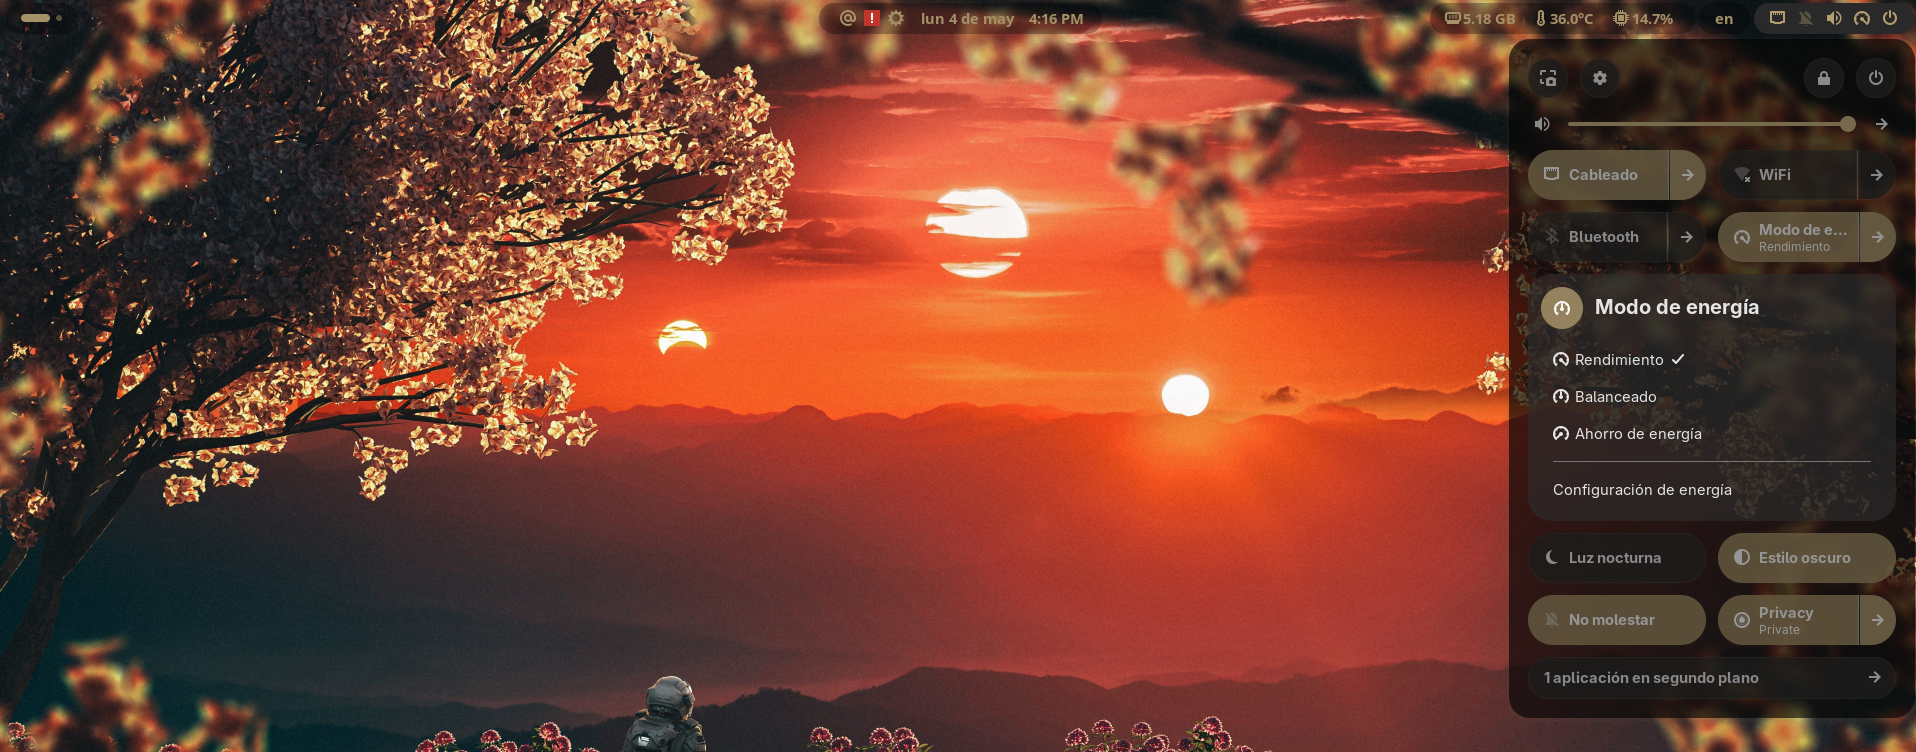
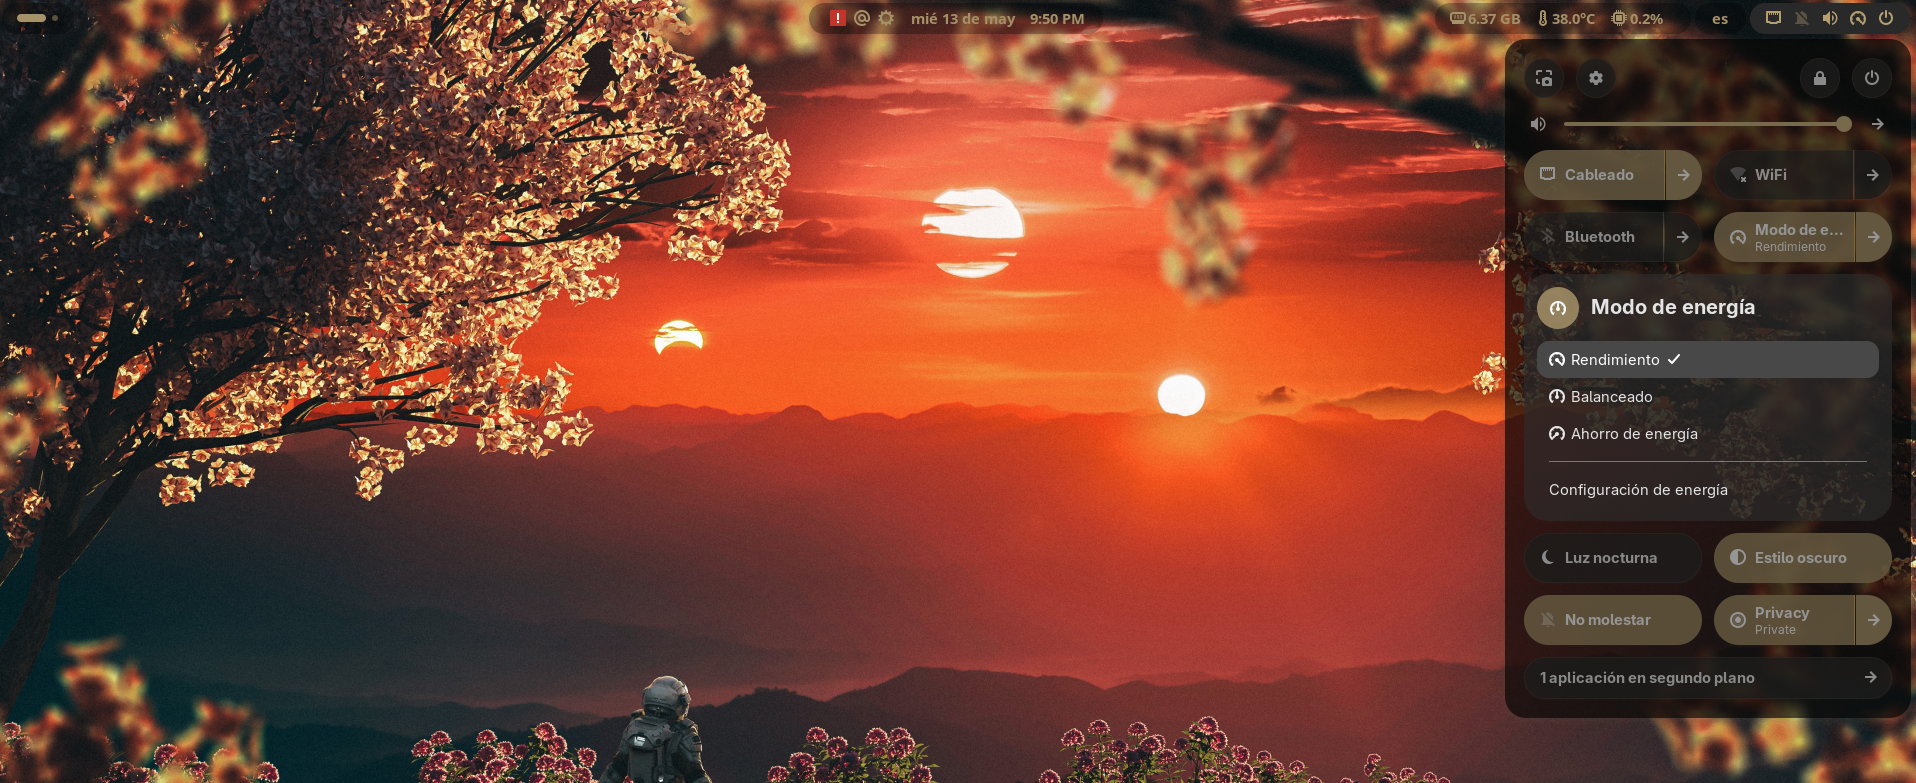
feat: finalize UI with Tile Division Color and fix config export
- Added customizable 'Tile Division Color' for Quick Settings.
- Improved dconf export logic to ensure files are saved correctly.
- Synchronized tile border radius with system settings.
- Fixed division line artifacts on active/checked tiles.
- Updated README with new screenshot references.

diff --git a/bar-enhanced@mrvanguardia/stylesheets.js b/bar-enhanced@mrvanguardia/stylesheets.js
@@ -1144,6 +1144,7 @@ function getStylesheet(obar, Me) {
     let menuRadius = obar._settings.get_double('menu-radius');
     let notifRadius = obar._settings.get_double('notif-radius');
     let qtoggleRadius = obar._settings.get_double('qtoggle-radius');
+    let qtileBorderColor = obar._settings.get_strv('qtile-border');
     let sliderHeight = obar._settings.get_double('slider-height');
     let sliHandBorder = obar._settings.get_double('handle-border');
     let mbgGradient = obar._settings.get_boolean('mbg-gradient');
@@ -1336,6 +1337,12 @@ function getStylesheet(obar, Me) {
     let mhbg = `rgba(${mhbgred},${mhbggreen},${mhbgblue},${1.0})`;
     // Save menu highlight hex for use in focused svg
     obar.mhHex = rgbToHex(mhbgred, mhbggreen, mhbgblue);
+
+    // Quick Settings Tile Border -
+    let qtbr = parseInt(parseFloat(qtileBorderColor[0]) * 255);
+    let qtbg = parseInt(parseFloat(qtileBorderColor[1]) * 255);
+    let qtbb = parseInt(parseFloat(qtileBorderColor[2]) * 255);
+    let qtcolor = `rgba(${qtbr},${qtbg},${qtbb},1.0)`;
 
     // Sub Menu Auto Highlight
     hgColor = [mhred, mhgreen, mhblue];
@@ -3137,10 +3144,36 @@ function getStylesheet(obar, Me) {
             color: rgba(${smfgred},${smfggreen},${smfgblue},1) !important;
         }
         .app-folder-dialog .folder-name-container .edit-folder-button,
-        .app-folder-dialog .folder-name-container .icon-button {
+        .quick-settings-tile .quick-settings-tile-main-button, 
+        .quick-settings-tile .quick-settings-tile-side-button,
+        .quick-settings-tile .quick-settings-tile-main-button:checked,
+        .quick-settings-tile .quick-settings-tile-side-button:checked,
+        .quick-settings-tile .quick-settings-tile-main-button:active,
+        .quick-settings-tile .quick-settings-tile-side-button:active {
             color: rgba(${mfgred},${mfggreen},${mfgblue},1) !important;
-            background-color: ${mbg} !important;
-            border-color: ${msc} !important;
+            border: 1px solid ${qtcolor} !important;
+            outline: none !important;
+            outline-width: 0 !important;
+            box-shadow: none !important;
+            margin: 0 !important;
+        } 
+        .quick-settings-tile .quick-settings-tile-main-button,
+        .quick-settings-tile .quick-settings-tile-main-button:checked {
+            border-radius: ${qtoggleRadius}px 0 0 ${qtoggleRadius}px !important;
+            border-right-width: 0.5px !important;
+        }
+        .quick-settings-tile .quick-settings-tile-side-button,
+        .quick-settings-tile .quick-settings-tile-side-button:checked {
+            border-radius: 0 ${qtoggleRadius}px ${qtoggleRadius}px 0 !important;
+            border-left-width: 0.5px !important;
+        }
+        .quick-settings-tile-main-button:hover, .quick-settings-tile-side-button:hover,
+        .quick-settings-tile-main-button:focus, .quick-settings-tile-side-button:focus {
+            background-color: ${mhbg} !important;
+            color: rgba(${mhfgred},${mhfggreen},${mhfgblue},1) !important;
+            border: none !important;
+            outline: none !important;
+            outline-width: 0 !important;
         }
         .app-folder-dialog .folder-name-container .edit-folder-button:hover,
         .app-folder-dialog .folder-name-container .edit-folder-button:focus,

diff --git a/bar-enhanced@mrvanguardia/prefs.js b/bar-enhanced@mrvanguardia/prefs.js
@@ -352,6 +352,7 @@ class BarEnhancedPrefs {
         mGroup.add(this.createSwitchRow('mbg-gradient', T('Surface Linear Gradient')));
         mGroup.add(this.createSwitchRow('smbgoverride', T('Secondary Palette Override')));
         const smRow = new Adw.ActionRow({ title: T('Secondary Surface') }); smRow.add_suffix(this.createColorButton(window, 'smbgcolor')); mGroup.add(smRow);
+        const tileDivRow = new Adw.ActionRow({ title: T('Tile Division Color') }); tileDivRow.add_suffix(this.createColorButton(window, 'qtile-border')); mGroup.add(tileDivRow);
         
         const mBordGroup = new Adw.PreferencesGroup({ title: T('Popups Geometry') });
         menuPage.add(mBordGroup);
@@ -642,10 +643,12 @@ class BarEnhancedPrefs {
     exportSettings(window) {
         let f = new Gtk.FileChooserDialog({ title: T("Export Configuration"), action: Gtk.FileChooserAction.SAVE, transient_for: window });
         f.add_button(T("Cancel"), Gtk.ResponseType.CANCEL); f.add_button(T("Save"), Gtk.ResponseType.ACCEPT);
+        f.set_current_name("bar_enhanced_config"); // Nombre por defecto
         f.connect('response', (s, r) => {
             if (r == Gtk.ResponseType.ACCEPT) {
+                let path = f.get_file().get_path();
                 // Export from the correct path to ensure the file is valid for future imports
-                GLib.spawn_command_line_sync(`dconf dump /org/gnome/shell/extensions/barEnhanced/ > "${f.get_file().get_path()}"`);
+                GLib.spawn_command_line_sync(`sh -c 'dconf dump /org/gnome/shell/extensions/barEnhanced/ > "${path}"'`);
             }
             f.destroy();
         });

diff --git a/README.md b/README.md
@@ -57,6 +57,9 @@ To install **Bar Enhanced** correctly, you must clone the repository and then mo
 ![Modern preferences window](screens/b2.png)  
 *New navigation interface with top tabs.*
 
+![Modern interface](screens/b3.png)  
+*Example of the interface.*
+
 
 ## 📜 License
 This program is free software: you can redistribute it and/or modify it under the terms of the **GNU General Public License version 3 (GPL-3.0)**.